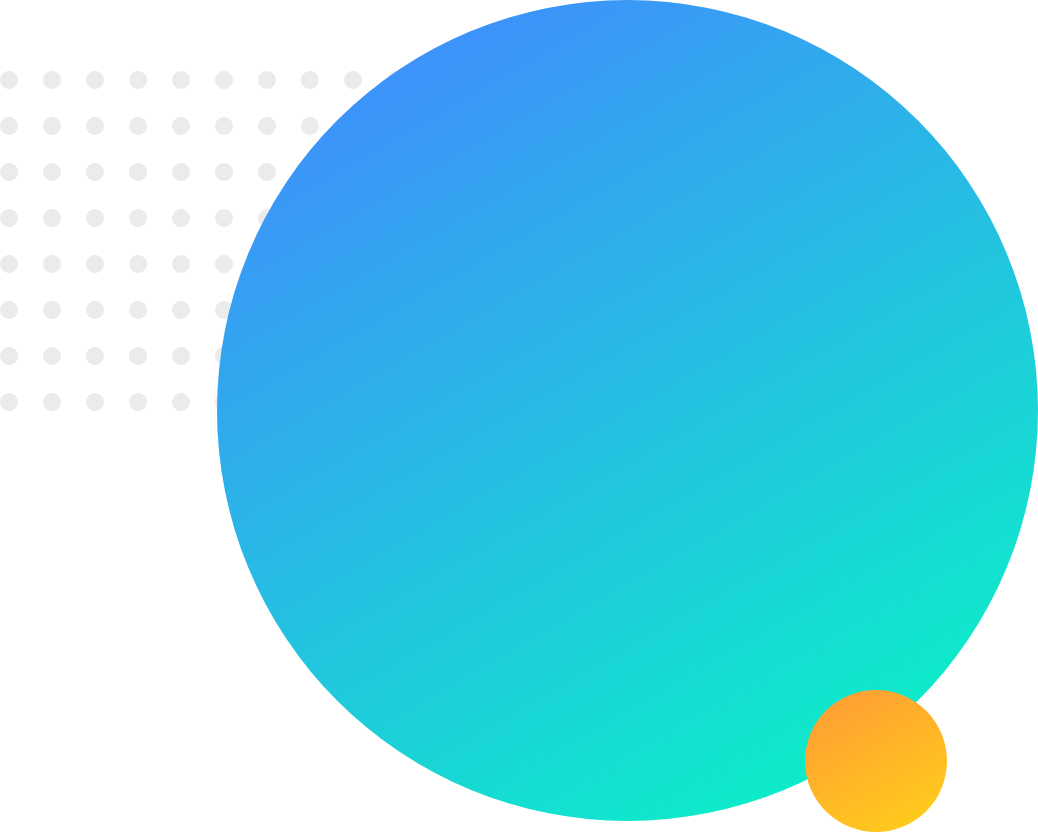
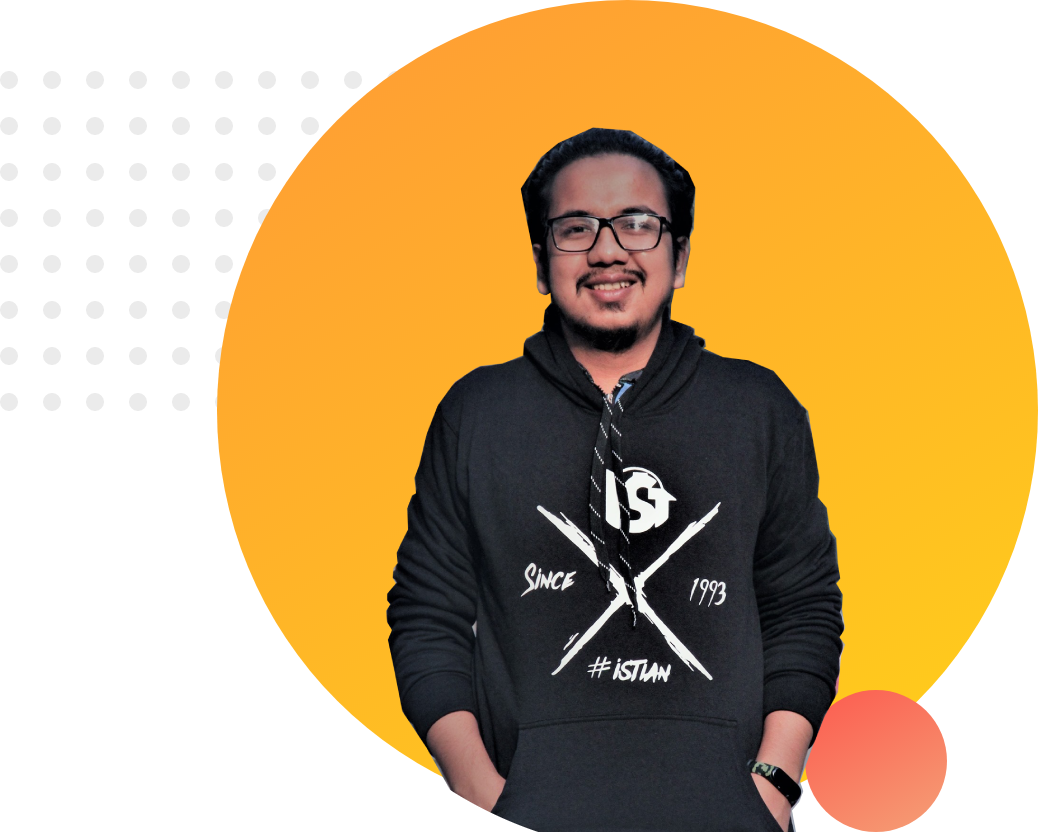
added top bar

diff --git a/index.html b/index.html
@@ -1,0 +1,28 @@
+<!DOCTYPE html>
+<html lang="en">
+<head>
+    <meta charset="UTF-8">
+    <meta name="viewport" content="width=device-width, initial-scale=1.0">
+    <title>Mahfuz web developer</title>
+    <link rel="stylesheet" href="style.css">
+</head>
+<body>
+    <section>
+        <div class="half_width">
+            <h1>Welcome To</h1>
+            <h1><span class="name_highlight">Mafuz Alam</span> Website</h1>
+            <h3>Professional Web Developer</h3>
+            <p>I am mahfuz Alam.I am Student of Bsc in Electronics and communication Engineering.I am done by many project hardware and software base.I am also interest in Web development then i try to my skill development and learning this tropics HTML,CSS,Bootstrap,JavaScript,Jquery etc.</p>
+            <button></button>
+        </div>
+        <div  class="half_width">
+            <img src="image/pic2.png" alt="">
+        </div>
+    </section>
+    
+    
+    
+    
+    
+</body>
+</html>

diff --git a/style.css b/style.css
@@ -1,0 +1,21 @@
+@import url('https://fonts.googleapis.com/css2?family=Poppins:ital,wght@0,200;0,300;0,400;0,500;0,700;0,800;1,400;1,500;1,700;1,800;1,900&display=swap');
+
+body{
+    font-family: 'Poppins', sans-serif;
+}
+h1{
+    font-size: 50px;
+
+}
+.name_highlight{
+    color:tomato;
+}
+.half_width{
+    width:40%;
+    float: left;
+    margin-left:5%;
+    padding-left: 2%;
+}
+.half_width img{
+    width:100%;
+}
